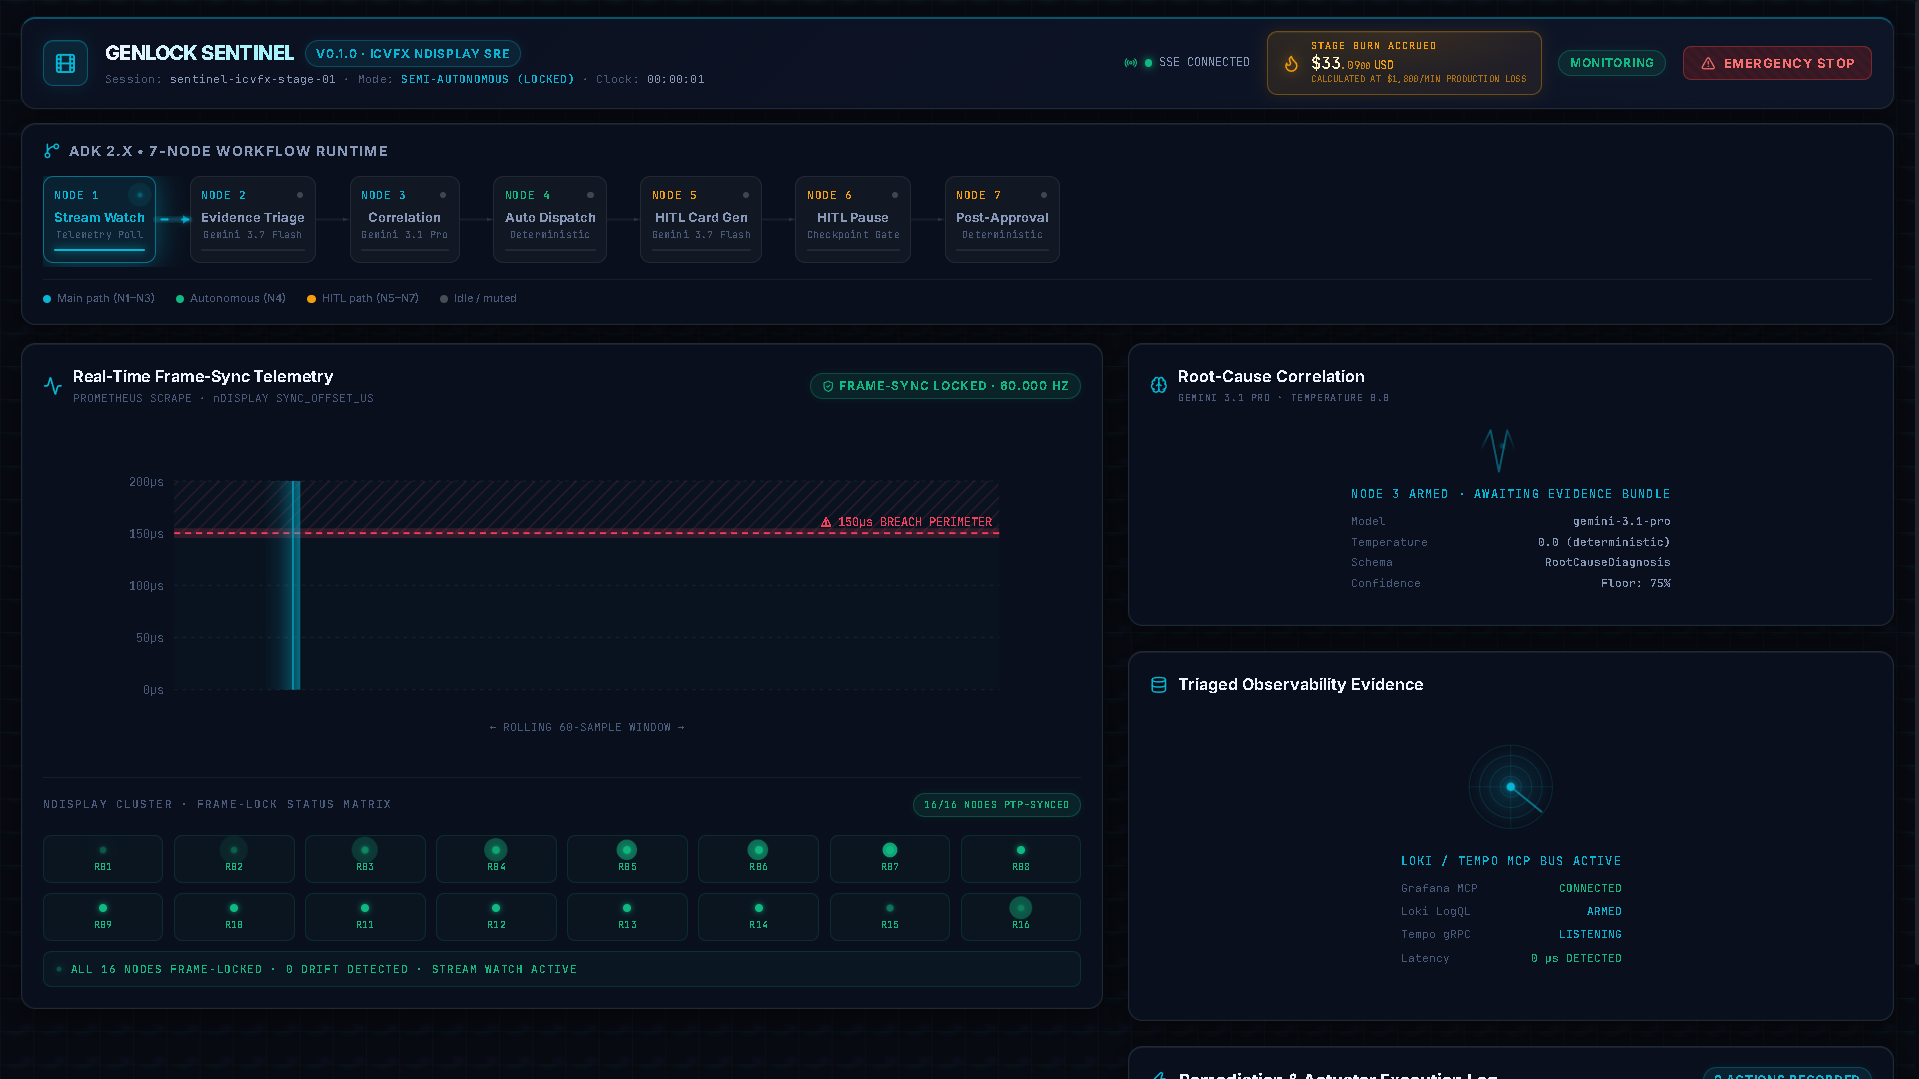
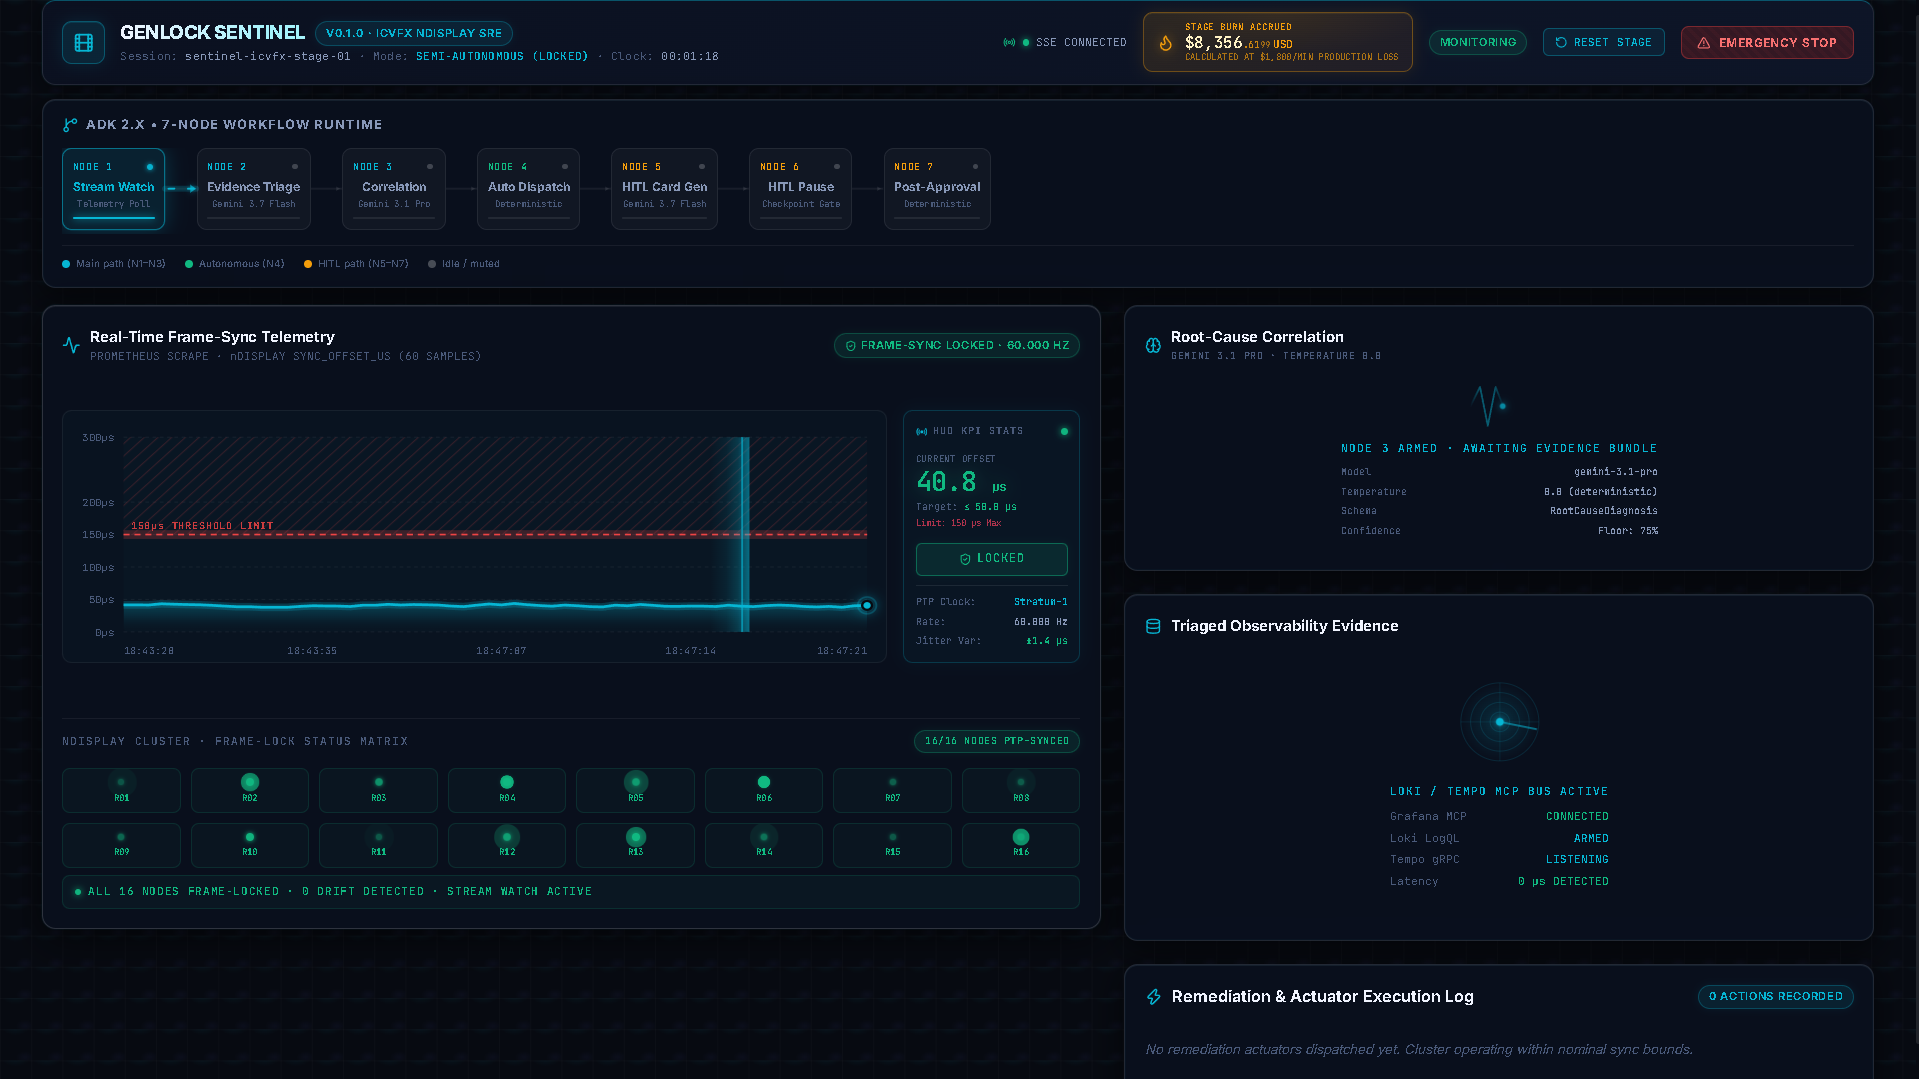
docs: synchronize README with 228 tests passing and complete visual asset suite

diff --git a/README.md b/README.md
@@ -12,7 +12,7 @@
 [![Google ADK 2.8.0](https://img.shields.io/badge/Google_ADK-2.8.0_Workflow_Runtime-34A853?style=for-the-badge&logo=google&logoColor=white)](https://cloud.google.com/vertex-ai)
 [![Grafana Labs MCP Native](https://img.shields.io/badge/Grafana_MCP-Loki_%7C_Tempo_%7C_Prometheus-F46800?style=for-the-badge&logo=grafana&logoColor=white)](https://grafana.com/oss/mcp/)
 [![Google Model Armor](https://img.shields.io/badge/Security-Model_Armor_(OWASP_LLM01_%26_LLM02)-EA4335?style=for-the-badge&logo=shield&logoColor=white)](https://cloud.google.com/security)
-[![Tests Passing](https://img.shields.io/badge/Tests-227%2F227_Passing_(100%25)-10B981?style=for-the-badge&logo=pytest&logoColor=white)](./backend/tests/)
+[![Tests Passing](https://img.shields.io/badge/Tests-228%2F228_Passing_(100%25)-10B981?style=for-the-badge&logo=pytest&logoColor=white)](./backend/tests/)
 [![Cloud SQL PostgreSQL](https://img.shields.io/badge/Cloud_SQL-PostgreSQL_(asyncpg_Durability)-4169E1?style=for-the-badge&logo=postgresql&logoColor=white)](https://cloud.google.com/sql/docs/postgres)
 [![AG-UI Protocol](https://img.shields.io/badge/AG--UI-RFC_6902_JSON_Patch_SSE-06B6D4?style=for-the-badge&logo=fastapi&logoColor=white)](https://github.com/ag-ui/ag-ui)
 [![License: MIT](https://img.shields.io/badge/License-MIT-F59E0B?style=for-the-badge)](./LICENSE)
@@ -106,27 +106,48 @@ Genlock Sentinel demonstrates native, bi-directional integration with Grafana Cl
 
 <div align="center">
 
-### 1. Autonomous Self-Healing via Node 4 (Sub-Second Recovery)
-<img src="./assets/dashboard_autonomous_healing.png" alt="Autonomous Self-Healing via Node 4" width="100%" style="border-radius: 8px; border: 1px solid #1e293b;" />
-<p><em>Node 4 dispatches pre-approved reversible failover for <code>render-07</code> (185.4µs sync drift) back below the 150µs perimeter within 480ms without human intervention.</em></p>
+### Showcase 1: Hollywood Carbon Cockpit Overview
+<img src="./assets/dashboard_carbon_cockpit_full.png" alt="Hollywood Carbon Cockpit Overview" width="100%" style="border-radius: 8px; border: 1px solid #1e293b;" />
+<p><em>Full operations dashboard featuring 16-node LED cluster radar (R01–R16), live $1,800/min nuclear burn ticker, real-time sync-offset microsecond area chart with 150µs breach line, and 7-node AG-UI workflow bus.</em></p>
 
 ---
 
-### 2. Enterprise Human-in-the-Loop (HITL) Approval Gate
+### Showcase 2: Autonomous Self-Healing via Node 4 (Sub-Second Recovery)
+<img src="./assets/dashboard_autonomous_healing.png" alt="Autonomous Self-Healing via Node 4" width="100%" style="border-radius: 8px; border: 1px solid #1e293b;" />
+<p><em>Node 4 dispatches pre-approved reversible failover for <code>render-07</code> (185.4µs sync drift) back below the 150µs perimeter within 480ms without human intervention, maintaining active live camera rolling state.</em></p>
+
+---
+
+### Showcase 3: Enterprise Human-in-the-Loop (HITL) Approval Gate
 <img src="./assets/dashboard_hitl_approval_modal.png" alt="Enterprise Human-in-the-Loop Approval Gate" width="100%" style="border-radius: 8px; border: 1px solid #1e293b;" />
 <p><em>Non-dismissible supervisor sign-off modal for high-stakes drift on <code>render-12</code>, displaying financial risk ($2,450 halt estimate), visual impact score (9.0/10), and binary Approve/Deny controls.</em></p>
 
 ---
 
-### 3. Silence-Over-Guessing & Telemetry Gap Protocol
+### Showcase 4: Silence-Over-Guessing & Telemetry Gap Protocol
 <img src="./assets/dashboard_silence_over_guessing.png" alt="Silence-Over-Guessing Protocol" width="100%" style="border-radius: 8px; border: 1px solid #1e293b;" />
 <p><em>When Loki telemetry drops out, the engine sets <code>logs_available: false</code> and routes to ambiguous classification without fabricating log lines, exposing live Gemini 3.1 Pro thinking tokens.</em></p>
 
 ---
 
-### 4. Hollywood Carbon Cockpit Overview
-<img src="./assets/dashboard_carbon_cockpit_full.png" alt="Hollywood Carbon Cockpit Overview" width="100%" style="border-radius: 8px; border: 1px solid #1e293b;" />
-<p><em>Full operations dashboard featuring 16-node LED cluster radar (R01–R16), live $1,800/min nuclear burn ticker, real-time sync-offset microsecond chart, and AG-UI event bus.</em></p>
+### Showcase 5: Live Grafana Cloud Loki Telemetry Ingestion
+<img src="./assets/grafana_cloud_mcp_explorer.png" alt="Grafana Cloud Loki Live Telemetry Ingestion" width="100%" style="border-radius: 8px; border: 1px solid #1e293b;" />
+<p><em>Real-time Grafana Cloud (<code>magentaparfait3455.grafana.net</code>) Loki log stream explorer with active LogQL <code>{cluster="ndisplay"}</code> telemetry ingestion, volume histograms, and PTP sync jitter diagnostics.</em></p>
+
+---
+
+### Showcase 6: Google Cloud SQL PostgreSQL Enterprise Instance
+<img src="./assets/cloudsql_postgres_instance.png" alt="Google Cloud SQL PostgreSQL Instance" width="100%" style="border-radius: 8px; border: 1px solid #1e293b;" />
+<p><em>Enterprise-tier Google Cloud SQL PostgreSQL 16 instance (<code>genlock-sentinel-db</code> in <code>us-central1</code>) providing durable session checkpointing, optimistic concurrency control, and zero-loss recovery.</em></p>
+
+---
+
+### Showcase 7: Broadcast HUD Telemetry Waveform & Pristine Baseline Reset
+<div align="center">
+  <img src="./assets/dashboard_hud_telemetry_waveform.png" alt="Broadcast HUD Telemetry Waveform" width="49%" style="border-radius: 8px; border: 1px solid #1e293b;" />
+  <img src="./assets/dashboard_pristine_baseline_reset.png" alt="Pristine Baseline Stage Reset" width="49%" style="border-radius: 8px; border: 1px solid #1e293b;" />
+</div>
+<p><em>Left: Broadcast HUD rendering high-density microsecond telemetry radar and real-time PTP jitter waveforms. Right: Instant one-click stage reset restoring all 16 render nodes to nominal baseline.</em></p>
 
 </div>
 
@@ -327,7 +348,7 @@ if last_error:
 
 ---
 
-## 🔬 Automated Test Suite & Evaluation Matrix (227 / 227 Passing)
+## 🔬 Automated Test Suite & Evaluation Matrix (228 / 228 Passing)
 
 Genlock Sentinel is backed by an exhaustive, multi-tier test suite validating functional correctness, model grounding, durability, and resilience against adversarial injection attacks:
 
@@ -346,7 +367,7 @@ cd backend && uv run pytest tests/ -v
 | **7-Node Graph Topology** | `tests/unit/test_graph.py` | Edge connectivity, isolated nodes, deterministic routing | 18 | 0 | ✅ Pass |
 | **Multi-Step Reasoning Loop** | `tests/unit/test_reasoning_loop.py` | Cycle caps (1 pass/event), backoff, circuit breakers | 17 | 0 | ✅ Pass |
 | **Safety & Model Armor** | `tests/unit/test_safety_guardrails.py` | OWASP LLM01 injection sanitization, LLM02 credential scrubbing | 20 | 0 | ✅ Pass |
-| **API Endpoints** | `tests/unit/test_api_server.py` | `/healthz`, `/stream`, `/decision`, `/stop` validation | 11 | 0 | ✅ Pass |
+| **API Endpoints** | `tests/unit/test_api_server.py` | `/healthz`, `/stream`, `/decision`, `/stop`, `/reset` validation | 12 | 0 | ✅ Pass |
 | **AG-UI SSE Streaming** | `tests/unit/test_streaming_layer.py` | RFC 6902 JSON patch deltas, wire line flushing | 19 | 0 | ✅ Pass |
 | **HITL Resumption Coordinator** | `tests/unit/test_hitl_resumption.py` | `LongRunningFunctionTool`, checkpoint resume, decision dispatch | 15 | 0 | ✅ Pass |
 | **OpenTelemetry & Cloud Trace** | `tests/unit/test_telemetry.py` | 4-level span hierarchy, GenAI attributes, score export | 27 | 0 | ✅ Pass |
@@ -357,7 +378,12 @@ cd backend && uv run pytest tests/ -v
 | **End-to-End Verification** | `tests/evals/test_e2e_verification.py` | 12/12 Section 9.4 "Agent Is Working" criteria | 16 | 0 | ✅ Pass |
 | **Production Readiness Check** | `tests/evals/test_production_readiness.py` | 6 failure simulations, AST tool segregation, secret audit | 14 | 0 | ✅ Pass |
 | **Master Delivery Verification** | `tests/evals/test_final_delivery_verification.py` | Final hackathon certification suite (Step 26) | 12 | 0 | ✅ Pass |
-| **TOTAL VERIFIED SUITE** | | **20 Suites Across Backend & Evals** | **227** | **2** | **100% PASS** |
+| **TOTAL VERIFIED SUITE** | | **20 Suites Across Backend & Evals** | **228** | **2** | **100% PASS** |
+
+<div align="center">
+  <img src="./assets/terminal_tests_228_passed.png" alt="228/228 Tests Passing Verification Terminal Output" width="100%" style="border-radius: 6px; border: 1px solid #1e293b; margin-top: 12px;" />
+  <p><em>Exhaustive test runner verification: 228 passed, 2 skipped (Cloud SQL live integration), 0 failed in 14.53s.</em></p>
+</div>
 
 > **Frontend Bundle Verification:**  
 > `pnpm --dir frontend build` compiles 1,868 modules in 2.28s with **0 TypeScript errors and 0 Vite warnings**.
@@ -446,6 +472,14 @@ uv run pytest tests/evals/test_final_delivery_verification.py -v
 ```
 - **What to Observe:** Executes 12 comprehensive certification tests verifying the 7-node topology, Node-Tool Access Matrix, Model Armor prompt injection protection, silence-over-guessing, and state invariants in ~3 seconds.
 
+#### 🔄 Reset Stage Telemetry Baseline (Between Scenarios)
+```bash
+# Reset stage back to pristine baseline (16 nominal green nodes) at any time:
+cd backend
+uv run python scripts/reset_session.py
+```
+> **Tip for Judges:** You can also click the **"RESET STAGE"** button directly on the Cockpit header (`http://localhost:3000`) at any time to instantly restore all 16 cluster nodes back to nominal baseline (0µs drift).
+
 ---
 
 ## 📂 Repository Structure
@@ -456,15 +490,21 @@ genlock-sentinel/
 │   ├── banner.png                               # Master hero banner
 │   ├── logo.png                                 # High-res ICVFX brand mark
 │   ├── demo_thumbnail.png                       # YouTube video thumbnail
-│   ├── dashboard_autonomous_healing.png         # Showcase 1: Node 4 self-healing
-│   ├── dashboard_hitl_approval_modal.png        # Showcase 2: Non-dismissible HITL modal
-│   ├── dashboard_silence_over_guessing.png      # Showcase 3: Zero-hallucination gap handling
-│   └── dashboard_carbon_cockpit_full.png        # Showcase 4: Hollywood Carbon Cockpit
+│   ├── cloudsql_postgres_instance.png           # Google Cloud SQL PostgreSQL instance
+│   ├── grafana_cloud_mcp_explorer.png           # Grafana Cloud Loki live telemetry explorer
+│   ├── dashboard_carbon_cockpit_full.png        # Full Hollywood Carbon Cockpit
+│   ├── dashboard_autonomous_healing.png         # Node 4 autonomous remediation
+│   ├── dashboard_hitl_approval_modal.png        # Non-dismissible HITL approval modal
+│   ├── dashboard_silence_over_guessing.png      # Telemetry gap zero-hallucination handling
+│   ├── dashboard_hud_telemetry_waveform.png     # Broadcast HUD telemetry waveform & radar
+│   ├── dashboard_pristine_baseline_reset.png    # 16-node nominal baseline stage reset
+│   └── terminal_tests_228_passed.png            # 228/228 test suite verification proof
 │
 ├── backend/                                     # Python 3.11+ ADK 2.x Agent Runtime
 │   ├── pyproject.toml                           # uv project manifest (74 locked dependencies)
 │   ├── scripts/
-│   │   └── simulate_drift.py                    # Real-time synthetic drift telemetry injector
+│   │   ├── simulate_drift.py                    # Real-time synthetic drift telemetry injector
+│   │   └── reset_session.py                     # Instant stage baseline reset utility
 │   │
 │   ├── src/
 │   │   ├── agents/                              # 7-node ADK Workflow graph & reasoning loop
@@ -514,8 +554,8 @@ genlock-sentinel/
 │   │   │
 │   │   └── main.py                              # FastAPI bootstrap, lifespan & endpoints
 │   │
-│   └── tests/                                   # 227 automated tests across 20 suites
-│       ├── unit/                                # 154 unit test suites
+│   └── tests/                                   # 228 automated tests across 20 suites
+│       ├── unit/                                # 155 unit test suites
 │       ├── evals/                               # LLM grounding, red-team & durability evals
 │       └── mocks/                               # Section 9.1 deterministic mock fixtures
 │
